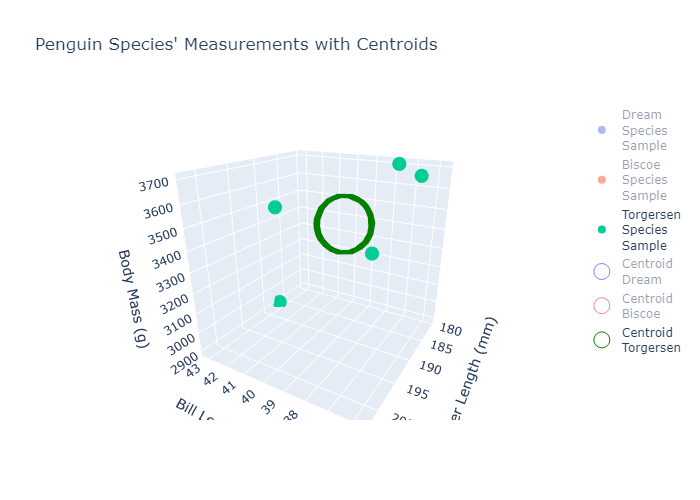
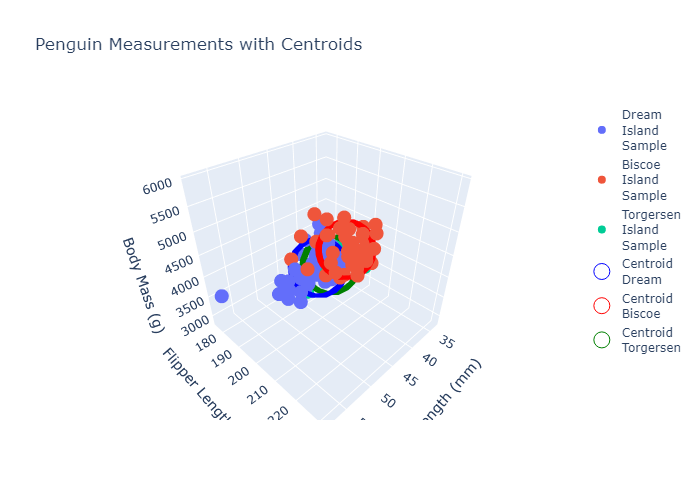
text

diff --git a/pages/scikit.py b/pages/scikit.py
@@ -73,7 +73,7 @@ for i, label in enumerate(set(classes)):
         y=test[test[0]==label]['flipper_length_mm'],
         z=test[test[0]==label]['body_mass_g'],
         mode='markers',
-        name=f"{label}<br>Species<br>Sample",
+        name=f"{label}<br>Island<br>Sample",
         marker={'symbol': 'circle'},
         hovertemplate = 
         'Bill: %{x}' +
@@ -105,7 +105,7 @@ fig.update_layout(
         yaxis_title='Flipper Length (mm)',
         zaxis_title='Body Mass (g)',
     ),
-    title='Penguin Species\' Measurements with Centroids',
+    title='Penguin Measurements with Centroids',
 )
 
 dash.register_page(__name__, suppress_callback_exceptions=True)
@@ -114,11 +114,11 @@ layout = html.Div([
 
     html.H2('Dashboard'),
 
-    html.P('This graph shows the number of bee colonies impacted by disease, humans, and other external factors around the United States.'),
+    html.P('This graph shows measurements of penguin\'s features separated by which island they reside on.'),
 
     dcc.Graph(figure = fig, id='penguin-scatter', style={'height:': '60vh'}),
     dbc.Row([
-            dbc.Col(dbc.Button(id='btn', children='Insights', className='my-2'), width=1)
+            dbc.Col(dbc.Button(id='btn', children='About this graph', className='my-2'), width=1)
         ],),
     dbc.Row([
             dbc.Col(dbc.Spinner(html.Div(id='insight-scikit', children=''), fullscreen=False), width=6)
@@ -127,7 +127,7 @@ layout = html.Div([
     dbc.Row([
         dbc.Col([
             dcc.Markdown(
-                "#### Need any further clarification? Ask our AI!\n",
+                "#### Ask a question about this graph:\n",
                 style={"textAlign": "left", "whiteSpace": "pre"},
             ),
             dbc.Input(
